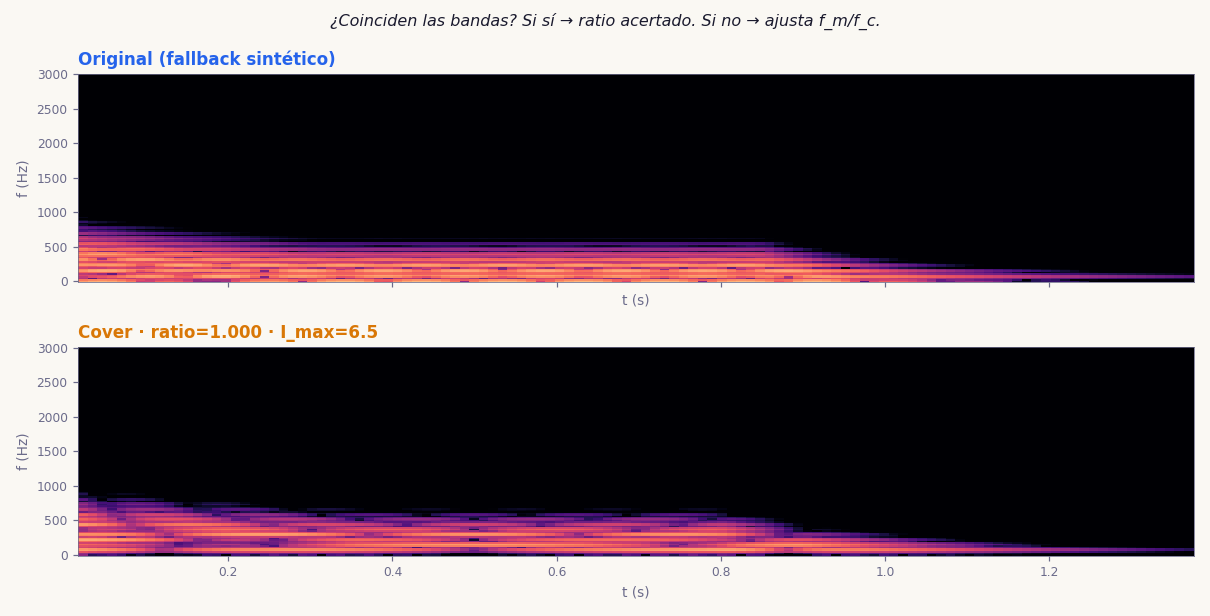
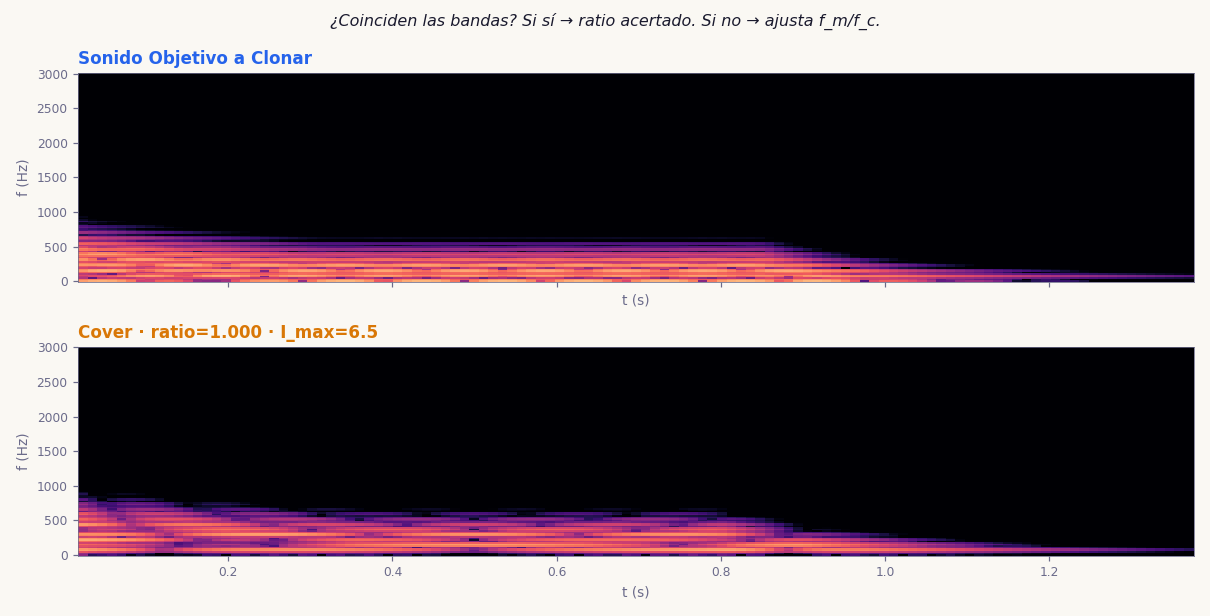
feat: added melody synthesis with polyphonic mix to 80s bass slide

diff --git a/frontend/src/slides/recreando_80s/Slide.jsx b/frontend/src/slides/recreando_80s/Slide.jsx
@@ -508,14 +508,24 @@ function Step3Validacion() {
         />
       </div>
 
-      {/* Audio Generado */}
-      <div style={{ display: 'grid', gridTemplateColumns: 'minmax(0, 520px)', justifyContent: 'center' }}>
-        <AudioPlayer
-          src="/audio/cover_80s.wav"
-          label="Bajo FM estilo 80s"
-          sublabel="GENERADO · NUMPY"
-          accent={AMBER}
-        />
+      {/* Audios Generados */}
+      <div style={{ display: 'flex', gap: 16, justifyContent: 'center', flexWrap: 'wrap' }}>
+        <div style={{ flex: '1 1 250px', maxWidth: 320 }}>
+          <AudioPlayer
+            src="/audio/cover_80s.wav"
+            label="Nota individual"
+            sublabel="GENERADO · NUMPY"
+            accent={AMBER}
+          />
+        </div>
+        <div style={{ flex: '1 1 250px', maxWidth: 320 }}>
+          <AudioPlayer
+            src="/audio/cover_80s_melody.wav"
+            label="Melodía estilo 80s"
+            sublabel="LÍNEA DE BAJO GENERADA"
+            accent={VIOLET}
+          />
+        </div>
       </div>
 
       <div style={{

diff --git a/dsp_pipelines/pipelines/recreando_80s.py b/dsp_pipelines/pipelines/recreando_80s.py
@@ -209,6 +209,63 @@ def synthesize_target_reference(sr: int, dur: float, fc: float) -> np.ndarray:
     y = fm(t, fc=fc, ratio=1.07, I_t=I_t, A_t=A_t)  # ratio levemente desafinado
     return normalize_peak_dbfs(y, dbfs=-1.5)
 
+def synthesize_melody(sr: int, fc_base: float, params: dict) -> np.ndarray:
+    """Genera una melodía de bajo estilo 80s usando los mismos parámetros FM."""
+    notes = [
+        (fc_base, 0.25),         # D2
+        (fc_base * 2, 0.25),     # D3 (octava)
+        (0, 0.125),              # Silencio
+        (fc_base * 1.498, 0.25), # A2 (quinta)
+        (fc_base * 1.498, 0.25), # A2
+        (0, 0.125),              # Silencio
+        (fc_base * 1.781, 0.25), # C3 (séptima menor)
+        (fc_base, 0.5),          # D2 (larga)
+    ]
+    
+    y_L_all = []
+    y_R_all = []
+    
+    ratio = float(params.get("ratio", 1.0))
+    I_max = float(params.get("I_max", 6.5))
+    detune_hz = float(params.get("detune_hz", 0.5))
+    A_env = float(params.get("attack_s", 0.005))
+    D_env = float(params.get("decay_s", 0.35))
+    S_env = float(params.get("sustain", 0.55))
+    R_env = float(params.get("release_s", 0.6))
+    single_note_time = float(params.get("duration_s", 1.4))
+
+    total_time = sum(dur for f, dur in notes)
+    out_length = int(sr * (total_time + single_note_time))
+    
+    y_L_out = np.zeros(out_length, dtype=np.float64)
+    y_R_out = np.zeros(out_length, dtype=np.float64)
+    
+    current_time = 0.0
+    for freq, duration in notes:
+        if freq > 0:
+            n_note = int(sr * single_note_time)
+            t = np.arange(n_note, dtype=np.float64) / sr
+            
+            # Usamos la misma envolvente del parámetro global para clonar el timbre idéntico
+            I_t = I_max * adsr(t, A=A_env, D=D_env, S=S_env, R=R_env)
+            A_t = adsr(t, A=A_env, D=0.20, S=0.85, R=0.50)
+            
+            y_L_note = fm(t, fc=freq - detune_hz, ratio=ratio, I_t=I_t, A_t=A_t)
+            y_R_note = fm(t, fc=freq + detune_hz, ratio=ratio, I_t=I_t, A_t=A_t)
+            
+            start_idx = int(sr * current_time)
+            y_L_out[start_idx:start_idx+n_note] += y_L_note
+            y_R_out[start_idx:start_idx+n_note] += y_R_note
+            
+        current_time += duration
+        
+    trim_idx = int(sr * (total_time + 1.0))
+    y_L_out = y_L_out[:trim_idx]
+    y_R_out = y_R_out[:trim_idx]
+        
+    melody_stereo = np.stack([y_L_out, y_R_out], axis=1)
+    return normalize_peak_dbfs(melody_stereo, dbfs=-1.4)
+
 
 # ============================================================
 # 4. Pipeline principal
@@ -256,6 +313,10 @@ def run(input_wav: Path, out_dir: Path, **params: Any) -> dict[str, Any]:
 
     cover_path = out_dir / "cover_80s.wav"
     sf.write(str(cover_path), cover_stereo, sr, subtype="PCM_16")
+
+    melody_stereo = synthesize_melody(sr, fc, params)
+    melody_path = out_dir / "cover_80s_melody.wav"
+    sf.write(str(melody_path), melody_stereo, sr, subtype="PCM_16")
 
     # ============================================================
     # 4b. Original: si existe el snippet, lo usamos; si no, fallback sintético
@@ -337,10 +398,14 @@ def run(input_wav: Path, out_dir: Path, **params: Any) -> dict[str, Any]:
         sf.write(str(target_path), normalize_peak_dbfs(x_orig_cmp, -2.0), sr, subtype="PCM_16")
         audio_outputs = {
             "cover_80s.wav": cover_path,
+            "cover_80s_melody.wav": melody_path,
             "original_80s.wav": target_path,
         }
     else:
-        audio_outputs = {"cover_80s.wav": cover_path}
+        audio_outputs = {
+            "cover_80s.wav": cover_path,
+            "cover_80s_melody.wav": melody_path
+        }
 
     return {
         "audio": audio_outputs,